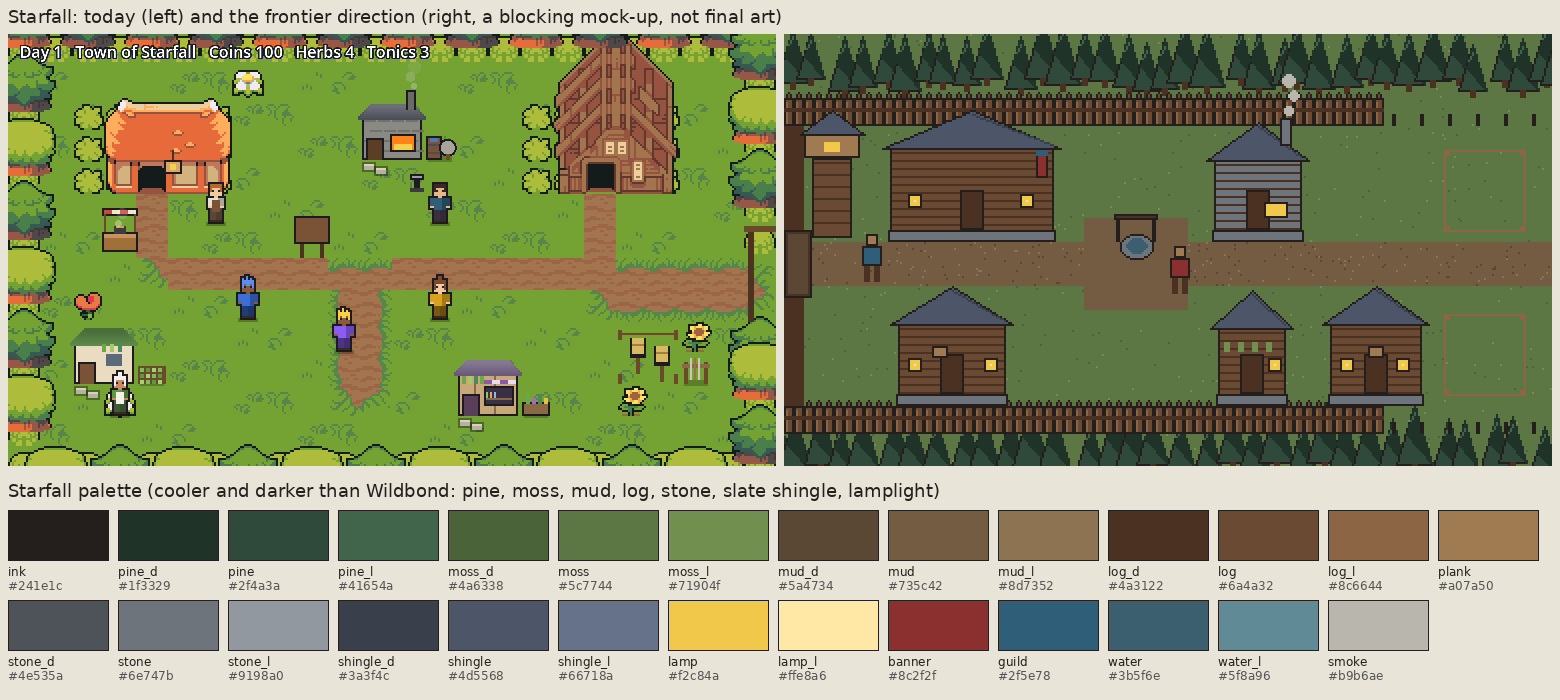
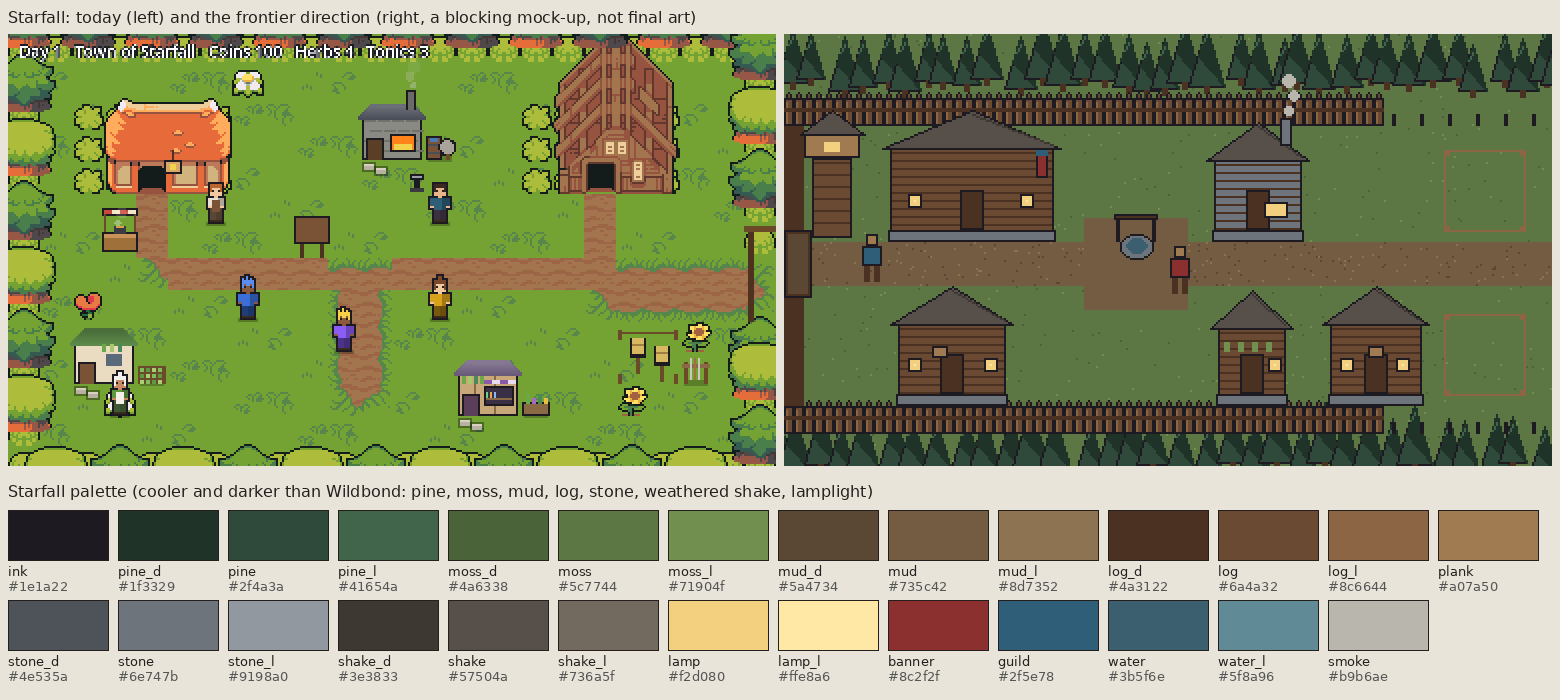
Art guide: link Wildbond's page, share its ink and lamplight, Starfall roofs in weathered wood
Wildbond's art direction page (PR #123) sits in docs/art/ already, so the arcade
guide links it as the first look sheet instead of moving it. Starfall now uses
Wildbond's ink (#1e1a22) and lamplight (#f2d080), the only shared colours, and
weathered shake roofs instead of slate so the two towns never echo each other.
The mock-up script now also writes palette.gpl and the look sheet.

Claude-Session: https://claude.ai/code/session_01Dc9xDMsvEbTojtztFBwVHK

diff --git a/tools/art/starfall_mockup.py b/tools/art/starfall_mockup.py
@@ -1,12 +1,14 @@
 # Starfall look sheet mock-up: blocking and mood at game resolution (384x216, 16 px tiles), not final art.
+# Run from the repo root: python3 tools/art/starfall_mockup.py
+# Writes docs/art/starfall/mockup-1x.png, look-sheet.png (beside today-1x.png, a screenshot) and palette.gpl.
 from PIL import Image, ImageDraw
 import random
 random.seed(7)
-P = {  # Starfall palette
- 'ink':'#241e1c','pine_d':'#1f3329','pine':'#2f4a3a','pine_l':'#41654a','moss_d':'#4a6338','moss':'#5c7744','moss_l':'#71904f',
+P = {  # Starfall palette (ink and lamp are shared with Wildbond: figures.gd OUTLINE, paint_tiles.gd lamplight)
+ 'ink':'#1e1a22','pine_d':'#1f3329','pine':'#2f4a3a','pine_l':'#41654a','moss_d':'#4a6338','moss':'#5c7744','moss_l':'#71904f',
  'mud_d':'#5a4734','mud':'#735c42','mud_l':'#8d7352','log_d':'#4a3122','log':'#6a4a32','log_l':'#8c6644','plank':'#a07a50',
- 'stone_d':'#4e535a','stone':'#6e747b','stone_l':'#9198a0','shingle_d':'#3a3f4c','shingle':'#4d5568','shingle_l':'#66718a',
- 'lamp':'#f2c84a','lamp_l':'#ffe8a6','banner':'#8c2f2f','guild':'#2f5e78','water':'#3b5f6e','water_l':'#5f8a96','smoke':'#b9b6ae'}
+ 'stone_d':'#4e535a','stone':'#6e747b','stone_l':'#9198a0','shake_d':'#3e3833','shake':'#57504a','shake_l':'#736a5f',
+ 'lamp':'#f2d080','lamp_l':'#ffe8a6','banner':'#8c2f2f','guild':'#2f5e78','water':'#3b5f6e','water_l':'#5f8a96','smoke':'#b9b6ae'}
 W,H=384,216
 im=Image.new('RGB',(W,H),P['moss']); d=ImageDraw.Draw(im)
 def R(x,y,w,h,c,o=None):
@@ -43,7 +45,7 @@ R(0,46,10,140,'log_d');
 R(0,98,14,34,'log_d','ink'); R(2,100,10,30,'mud_d')  # open gate passage
 R(14,62,20,40,'log','ink'); 
 for yy in range(64,100,6): d.line([(15,yy),(32,yy)],fill=P['log_d'])
-R(10,50,28,12,'plank','ink'); d.polygon([(8,50),(24,38),(40,50)],fill=P['shingle'],outline=P['ink'])
+R(10,50,28,12,'plank','ink'); d.polygon([(8,50),(24,38),(40,50)],fill=P['shake'],outline=P['ink'])
 R(20,54,8,5,'lamp')  # lantern in the tower
 # the well in the square
 d.ellipse([168,100,184,112],fill=P['stone'],outline=P['ink']); d.ellipse([171,102,181,109],fill=P['water'])
@@ -63,17 +65,17 @@ def building(x,y,w,h,roof,wall_c='log',base='stone',door_x=None,windows=(),sign=
         R(x+w-12,y-10,6,14,'stone','ink')
         for i,s in enumerate([(x+w-10,y-16,4),(x+w-8,y-24,5),(x+w-11,y-32,6)]): d.ellipse([s[0],s[1],s[0]+s[2],s[1]+s[2]],fill=P['smoke'])
 # Guild Hall: the big longhouse opposite the gate's road, banner
-building(52,46,84,58,'shingle',windows=(62,118),door_x=88); R(126,58,6,14,'banner','ink'); R(126,58,6,3,'guild')
+building(52,46,84,58,'shake',windows=(62,118),door_x=88); R(126,58,6,14,'banner','ink'); R(126,58,6,3,'guild')
 # Inn: tall, lit, hanging sign (south side of the road)
-building(56,134,56,52,'shingle',windows=(62,100),sign=74)
+building(56,134,56,52,'shake',windows=(62,100),sign=74)
 # Smithy: stone walls, open forge glow
-building(214,52,46,52,'shingle',wall_c='stone',chim=True,windows=())
+building(214,52,46,52,'shake',wall_c='stone',chim=True,windows=())
 R(240,84,12,8,'lamp','ink')
 # Apothecary: narrow timber, herbs hanging
-building(216,136,36,50,'shingle',windows=(242,))
+building(216,136,36,50,'shake',windows=(242,))
 for i in range(4): R(220+i*7,154,3,5,'moss_l')
 # Tavern: east end, wider porch
-building(272,134,48,52,'shingle',windows=(278,306),sign=292)
+building(272,134,48,52,'shake',windows=(278,306),sign=292)
 # empty plots further east (staked out by Hob)
 for (x,y) in [(330,58),(330,140)]:
     d.rectangle([x,y,x+40,y+40],outline=P['log_l']); R(x,y,3,3,'log_l'); R(x+38,y,3,3,'log_l'); R(x,y+38,3,3,'log_l'); R(x+38,y+38,3,3,'log_l')
@@ -83,3 +85,25 @@ def person(x,y,shirt):
 person(36,100,'guild'); person(190,106,'banner')
 im.save('docs/art/starfall/mockup-1x.png')
 
+
+# palette.gpl, written from P so the file and the script never drift apart
+with open('docs/art/starfall/palette.gpl','w') as f:
+    f.write('GIMP Palette\nName: Starfall (frontier)\nColumns: 7\n# Starfall village palette, docs/art/starfall.md. Cooler and darker than Wildbond: pine, moss, mud, log, stone, weathered shake roofs; ink and lamplight shared with Wildbond.\n')
+    for k,v in P.items():
+        r,g,b=(int(v[i:i+2],16) for i in (1,3,5)); f.write('%3d %3d %3d\t%s\n'%(r,g,b,k))
+# look sheet: today (left), the mock-up (right), palette swatches below
+from PIL import ImageFont
+def font(n):
+    for f in ('/usr/share/fonts/truetype/dejavu/DejaVuSans.ttf',):
+        try: return ImageFont.truetype(f,n)
+        except OSError: pass
+    return ImageFont.load_default()
+S=Image.new('RGB',(1560,700),'#e8e4da'); sd=ImageDraw.Draw(S); f16,f13=font(16),font(13)
+sd.text((8,8),'Starfall: today (left) and the frontier direction (right, a blocking mock-up, not final art)',fill='#241e1c',font=f16)
+S.paste(Image.open('docs/art/starfall/today-1x.png').convert('RGB').resize((768,432),Image.NEAREST),(8,34))
+S.paste(im.resize((768,432),Image.NEAREST),(784,34))
+sd.text((8,482),'Starfall palette (cooler and darker than Wildbond: pine, moss, mud, log, stone, weathered shake, lamplight)',fill='#241e1c',font=f16)
+for i,(k,v) in enumerate(P.items()):
+    x,y=8+(i%14)*110,510+(i//14)*90
+    sd.rectangle([x,y,x+100,y+50],fill=v,outline='#241e1c'); sd.text((x,y+53),k,fill='#241e1c',font=f13); sd.text((x,y+68),v,fill='#555',font=f13)
+S.save('docs/art/starfall/look-sheet.png')

diff --git a/docs/art/starfall.md b/docs/art/starfall.md
@@ -9,25 +9,28 @@ Wildbond's cottages, barn and summer greens, so the two games look like one.
 The right half is a **blocking mock-up**, not final art: it fixes the palette, the layout and the sizes. The buildings
 in it are still too alike; the list below says how each one must differ. It is drawn by
 [tools/art/starfall_mockup.py](../../tools/art/starfall_mockup.py) (rerun with `python3 tools/art/starfall_mockup.py`),
-which also writes [starfall/mockup-1x.png](starfall/mockup-1x.png) at the game's real 384 by 216 size.
+which also writes [starfall/mockup-1x.png](starfall/mockup-1x.png) at the game's real 384 by 216 size and
+[starfall/palette.gpl](starfall/palette.gpl) from the same colour list. Today's screenshot is
+[starfall/today-1x.png](starfall/today-1x.png). Wildbond is leaving the Ninja Adventure pack for its own art; Starfall
+leaves it too, piece by piece, as the ART-SF tasks land.
 
 ## In a line
 A log-walled frontier town cut out of a pine forest, at the edge of the wilds: cooler and darker than Wildbond, built
-from timber, stone and slate, with mud underfoot and lamplight at night. It should feel new, a little rough and
+from timber and stone under weathered wooden roofs, with mud underfoot and lamplight at night. It should feel new, a little rough and
 growing: empty staked plots inside the wall, stakes where the wall will go next.
 
 ## Palette
 [starfall/palette.gpl](starfall/palette.gpl), 27 colours, three values per material: pine (forest), moss (grass),
-mud (road and square), log and plank (walls), stone (footings, smithy, well), shingle (slate-blue roofs), plus ink,
-lamplight, the guild's blue, a banner red, water and smoke. Add a colour only with a reason, and stay under 32.
+mud (road and square), log and plank (walls), stone (footings, smithy, well), shake (weathered grey-brown wooden roofs), plus
+ink and lamplight (both shared with Wildbond), the guild's blue, a banner red, water and smoke. Add a colour only with a reason, and stay under 32.
 
 ## What must differ from Wildbond
 | | Wildbond (Larkhaven) | Starfall |
 |---|---|---|
 | Ground | bright summer grass, flowers | darker moss, mud road and square, ferns and stumps; no flowers inside the wall |
-| Trees | round leafy trees | pines (cones), in a dense dark edge |
+| Trees | round broadleaf crowns with teal pines between | only pines, greener and darker, in a dense edge; stumps where the town was cleared |
 | Walls | whitewash and timber frame | round logs (horizontal), stone footings |
-| Roofs | thatch, red and slate tiles | slate-blue shingle only (the guild's banner and the lamps carry the colour) |
+| Roofs | slate blue (and the red barn) | weathered wooden shakes, grey-brown; never blue or red (the guild's banner and the lamps carry the colour) |
 | Edges of town | hedges and open fields | a log palisade with a gate and a watchtower |
 | Light | sunny, warm | cool daylight; warm lamplight in windows and on posts, brighter at night |
 

diff --git a/docs/QUEUE.md b/docs/QUEUE.md
@@ -87,7 +87,7 @@ with the ID).
 | ART-SF-1 | **Ground**: moss grass (4 variants), a mud road that joins up (straight, corners, ends, crossings, edges onto grass), packed-earth square, stone footing strip | [starfall.md](art/starfall.md), palette `docs/art/starfall/palette.gpl` | 16 px tiles in one sheet `ground.png`, plus a note of which tile is which | A 24 by 14 tile test patch with a road, a crossing and the square reads as the mock-up's ground, with no visible repeat |
 | ART-SF-2 | **Palisade, gate, watchtower**: pointed-log wall (straight, corner, end, a stake for wall to come), gate 48 x 48 open and shut, watchtower 32 x 80 lantern lit and unlit | as above | `palisade.png` (16 x 32 pieces), `gate.png`, `watchtower.png` | A wall run with a corner, the gate in it and the tower beside it on the contact sheet |
 | ART-SF-3 | **The pine edge**: three pine sizes (1, 2 and 3 tiles tall), stumps, ferns, rocks; a dense edge that tiles sideways | as above | `pines.png`, `forest_edge.png` | A forest edge behind the palisade that reads as dark pine, unlike Wildbond's round trees |
-| ART-SF-4 | **Guild Hall and Inn** (96 x 80 and 64 x 80): log walls, slate-blue shingle, the hall's banner, the inn's two storeys and sign; windows lit and unlit | starfall.md "Buildings" | `guild_hall.png`, `inn.png` (day and night windows as separate files) | Both on the contact sheet with a person at the door; the door is 12 x 20; footprints marked |
+| ART-SF-4 | **Guild Hall and Inn** (96 x 80 and 64 x 80): log walls, weathered shake roofs, the hall's banner, the inn's two storeys and sign; windows lit and unlit | starfall.md "Buildings" | `guild_hall.png`, `inn.png` (day and night windows as separate files) | Both on the contact sheet with a person at the door; the door is 12 x 20; footprints marked |
 | ART-SF-5 | **Smithy, apothecary, healer, tavern** (sizes in starfall.md), plus well, job board, training yard | as above | one PNG per building, `well.png`, `board.png`, `yard.png` | Each building recognisable by its silhouette alone (fill them in ink and check); footprints marked |
 | ART-SF-6 | **Props**: barrels, crates, firewood, lantern post lit and unlit, cart, bunting, an empty plot's stakes and string | as above | `props.png` | Props scattered on the test patch from ART-SF-1 |
 

diff --git a/docs/art/README.md b/docs/art/README.md
@@ -26,8 +26,8 @@ covers sources, licences and sound.
    objects and people; light from the upper left, so each material has a light, a middle and a dark value and the
    shadow side is the lower right.
 6. **Each game has its own palette** of at most about 32 colours, saved as a `.gpl` file (opens in Aseprite,
-   LibreSprite, Pixelorama, GIMP, Krita), with three values per material. Games share only the ink and the lamplight
-   yellow, so lit windows feel like the same arcade.
+   LibreSprite, Pixelorama, GIMP, Krita), with three values per material. Games share only the ink (`#1e1a22`, Wildbond's
+   figures.gd `OUTLINE`) and the lamplight (`#f2d080`), so outlines and lit windows feel like the same arcade.
 7. **Every building is known by its silhouette.** Chimney and glow for a smithy, a tower for a watch, a porch and a
    hanging sign for a tavern, a banner for the guild. If two buildings could swap places unnoticed, one is wrong.
 8. **People and creatures are ours,** drawn from parts in code (`figures.gd`), and feelings show as bubbles over heads.
@@ -58,7 +58,7 @@ Done when: a contact sheet beside a 16x24 person and the neighbouring pieces; re
 ## Look sheets (one per game)
 | Game | Sheet | In a line |
 |---|---|---|
-| Wildbond (Godot) | the Wildbond builder's art direction page, joining this folder as `wildbond.md` | A green river valley losing and regaining its colour: deep valley greens, whitewashed cottages, slate-blue roofs, a red barn |
+| Wildbond (Godot) | [wildbond-art-direction.md](wildbond-art-direction.md) (by the Wildbond builder; its palette lives in `wildbond-godot/tools/paint_tiles.gd`, keep the two in step) | A storybook valley that lost its colour and is getting it back: deep cool greens, whitewashed cottages, slate-blue roofs, a red barn |
 | Starfall village (Godot) | [starfall.md](starfall.md) | A log-walled frontier town in pine forest: cooler and darker, timber and stone, lamplight at night |
 | Realmbound (browser) | not yet | Classic high-fantasy roads and towns; its own sheet comes when it moves into the game window |
 | Diamond Career (browser) | not yet | Ballparks under lights; its own sheet with the sports framework |

diff --git a/docs/DEVELOPMENT-PATH.md b/docs/DEVELOPMENT-PATH.md
@@ -314,7 +314,8 @@ line or two, with the page that holds the detail.
   Wildbond look like one game, and free packs can't carry a future 3D or first-person game. Actioned: one arcade-wide
   art guide (docs/art/README.md: ten shared rules, a palette per game, footprints and heights in data, a drawing-task
   template), Starfall's look sheet and frontier mock-up (docs/art/starfall.md), and six drawing tasks (ART-SF-1 to 6)
-  any AI can claim. Wildbond's art page joins docs/art/ as wildbond.md.
+  any AI can claim. Wildbond's art page (docs/art/wildbond-art-direction.md, PR #123) is the first look sheet; the
+  games share only ink #1e1a22 and lamplight #f2d080, and Starfall's roofs are weathered wood so they never echo Wildbond's slate.
 - **2026-10-09, AR2.12 the front door (Claude, website thread):** three homepage styles split the effort and the
   living world could only fit four or five games, so a style that holds every game wins: the arcade hall is now the
   only one (Evan's call). Players could not tell what a game was or how to control it, so every card now says what you
